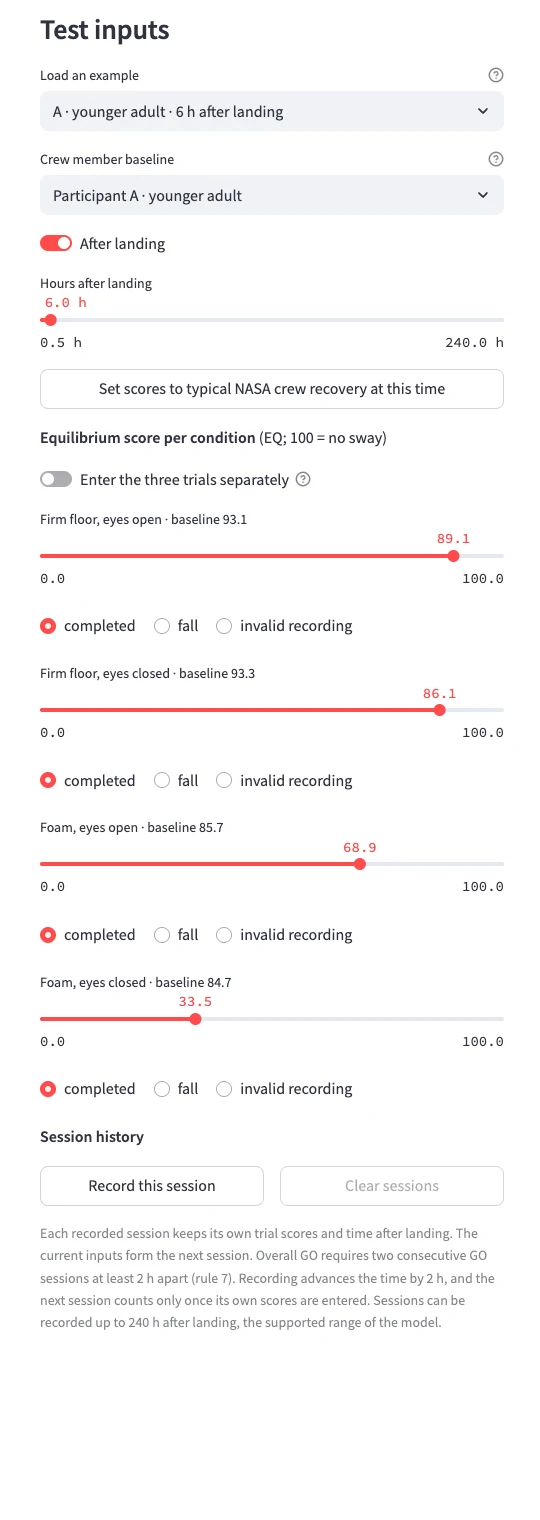
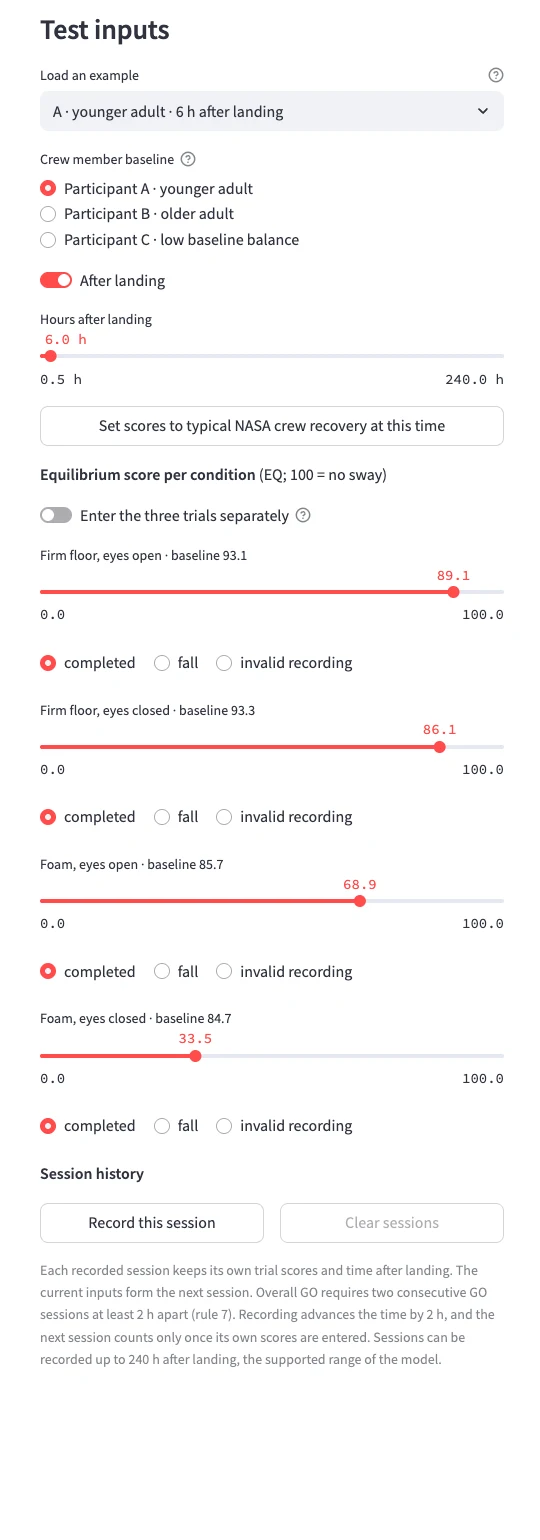
Deployed 23863ed with MkDocs version: 1.6.1

diff --git a/documentation/decision/index.html b/documentation/decision/index.html
@@ -771,6 +771,17 @@
 </li>
       
         <li class="md-nav__item">
+  <a href="#published-values-and-design-choices" class="md-nav__link">
+    <span class="md-ellipsis">
+      
+        Published values and design choices
+      
+    </span>
+  </a>
+  
+</li>
+      
+        <li class="md-nav__item">
   <a href="#overall-result-rule-7" class="md-nav__link">
     <span class="md-ellipsis">
       
@@ -1077,6 +1088,17 @@
 </li>
       
         <li class="md-nav__item">
+  <a href="#published-values-and-design-choices" class="md-nav__link">
+    <span class="md-ellipsis">
+      
+        Published values and design choices
+      
+    </span>
+  </a>
+  
+</li>
+      
+        <li class="md-nav__item">
   <a href="#overall-result-rule-7" class="md-nav__link">
     <span class="md-ellipsis">
       
@@ -1170,8 +1192,9 @@
 <p><strong>Rule 3: the 75% line.</strong> Jain et al. (2010) regarded a decrement of less than 25% from a crew member's own preflight
 score as recovery. A score below 75% of baseline therefore yields NO-GO.</p>
 <p><strong>Rule 4: the population floor.</strong> Jain et al. (2010) regarded a score below the 5th percentile of normative data as
-clinically abnormal. The floor <span class="arithmatex">\(P5_c\)</span> is the 5th percentile of healthy <abbr title="Human Balance Evaluation Database (PhysioNet): 163 adults, 1,930 force-plate trials">HBEDB</abbr> reference scores in the same condition
-and age group. A crew member whose score is below the floor is referred to the crew surgeon, even when the score is
+clinically abnormal. The floor <span class="arithmatex">\(P5_c\)</span> is the 5th percentile of reference scores in the same condition and age group,
+from <abbr title="Human Balance Evaluation Database (PhysioNet): 163 adults, 1,930 force-plate trials">HBEDB</abbr> participants without a reported disability, excluding reported labyrinthitis (see
+<a href="../validation/">Validation</a>). A crew member whose score is below the floor is referred to the crew surgeon, even when the score is
 close to their own baseline.</p>
 <h2 id="the-go-threshold">The GO threshold<a class="headerlink" href="#the-go-threshold" title="Permanent link">&para;</a></h2>
 <p>A single test is noisy. A score just above 75% of baseline may come from a true score below it. The GO threshold
@@ -1187,12 +1210,49 @@ median of three baseline trials when no true change has occurred. It is the larg
   200,000 times.</li>
 <li><strong>From the literature.</strong> The minimal detectable change of the head-shake Sensory Organization Test reported by Pang et al.
   (2011), 2.7 (younger) and 3.6 (older) points on the firm conditions and 16.2 and 22.7 points on the foam
-  conditions, converted to a per-trial spread and simulated 100,000 times at each baseline level.</li>
+  conditions. Each value, reported for a five-trial mean, is converted to a per-trial standard deviation,
+  <span class="arithmatex">\(\mathrm{MDC}\sqrt{5}/(1.96\sqrt{2})\)</span>, and three-trial medians are simulated 100,000 times at each baseline
+  level with independent, normally distributed errors.</li>
 </ul>
+<p>The literature margin is a transfer. Pang et al. measured five-trial means with head movements on firm and
+sway-referenced surfaces and divided age groups at 50 years. Here it is applied to three-trial medians with the head
+still, including foam, with the <abbr title="Human Balance Evaluation Database (PhysioNet): 163 adults, 1,930 force-plate trials">HBEDB</abbr> age groups divided at 60 years. Taking the larger of the two margins is the
+cautious choice.</p>
 <p>If <span class="arithmatex">\(q_c \ge 1\)</span>, the GO threshold lies at or above baseline. GO is then not reachable under the recovery model, and
 no retest time is estimated.</p>
 <p><strong>Example.</strong> For participant A on foam with eyes closed, <span class="arithmatex">\(b = 84.7\)</span>, <span class="arithmatex">\(q_{95} = 1.267\)</span> and <span class="arithmatex">\(P5 = 77.1\)</span>, so
 <span class="arithmatex">\(q = \max(0.950, 0.910) = 0.950\)</span>. A score must reach 95% of baseline for GO.</p>
+<h2 id="published-values-and-design-choices">Published values and design choices<a class="headerlink" href="#published-values-and-design-choices" title="Permanent link">&para;</a></h2>
+<table>
+<thead>
+<tr>
+<th>Quantity</th>
+<th>Origin</th>
+</tr>
+</thead>
+<tbody>
+<tr>
+<td>75% line</td>
+<td>Published: working definition of recovery (Jain et al. 2010)</td>
+</tr>
+<tr>
+<td>5th-percentile floor</td>
+<td>Published criterion (Jain et al. 2010), computed from <abbr title="Human Balance Evaluation Database (PhysioNet): 163 adults, 1,930 force-plate trials">HBEDB</abbr> reference data</td>
+</tr>
+<tr>
+<td>Test–retest margin</td>
+<td>Computed from <abbr title="Human Balance Evaluation Database (PhysioNet): 163 adults, 1,930 force-plate trials">HBEDB</abbr> data and from published values (Pang et al. 2011), with the transfer assumptions above</td>
+</tr>
+<tr>
+<td>Two sessions, at least 2 h apart</td>
+<td>Design choice</td>
+</tr>
+<tr>
+<td>Recovery model</td>
+<td>Published (Wood et al. 2015, Table III)</td>
+</tr>
+</tbody>
+</table>
 <h2 id="overall-result-rule-7">Overall result (rule 7)<a class="headerlink" href="#overall-result-rule-7" title="Permanent link">&para;</a></h2>
 <ul>
 <li>The overall result is that of the least favourable condition, in the order CANNOT ASSESS, NO-GO, CAUTION, GO.</li>

diff --git a/usage/reference/index.html b/usage/reference/index.html
@@ -1282,7 +1282,7 @@
 </tr>
 <tr>
 <td><strong>Crew member baseline</strong></td>
-<td>Preflight baseline and age group. The reference scores of three <abbr title="Human Balance Evaluation Database (PhysioNet): 163 adults, 1,930 force-plate trials">HBEDB</abbr> participants serve as preflight proxies. Changing the crew member clears the session history.</td>
+<td>Three option buttons. Preflight baseline and age group. The reference scores of three <abbr title="Human Balance Evaluation Database (PhysioNet): 163 adults, 1,930 force-plate trials">HBEDB</abbr> participants serve as preflight proxies. Changing the crew member clears the session history.</td>
 </tr>
 <tr>
 <td><strong>After landing</strong></td>
@@ -1315,6 +1315,37 @@
 <tr>
 <td><strong>Clear sessions</strong></td>
 <td>Removes every recorded session.</td>
+</tr>
+</tbody>
+</table>
+<p>Further controls in the tabs:</p>
+<table>
+<thead>
+<tr>
+<th>Control</th>
+<th>Description</th>
+</tr>
+</thead>
+<tbody>
+<tr>
+<td><strong>Planned dose (mg)</strong></td>
+<td>Pharmacological scenario tab: 0, 12.5, 25 or 50 mg of promethazine. 0 switches the scenario off. Available only after a landing, when every condition has a valid recording and no fall has occurred.</td>
+</tr>
+<tr>
+<td><strong>Route</strong></td>
+<td>Oral or intramuscular.</td>
+</tr>
+<tr>
+<td><strong>Dose time</strong></td>
+<td>0–48 h after the current session, in steps of 0.5 h.</td>
+</tr>
+<tr>
+<td><strong>Condition</strong></td>
+<td>From force plate to score tab: the sensory condition whose recorded baseline trial is shown.</td>
+</tr>
+<tr>
+<td><strong>Analyte</strong></td>
+<td>Additional crew data tab: one of seven blood analytes.</td>
 </tr>
 </tbody>
 </table>
@@ -1393,9 +1424,12 @@ landing and, where shown, the retest time (Wood et al. 2015).</p>
 the resulting status with the rule that produced it. Rules are applied in numerical order, and the first that
 applies sets the result. The numbered rules are listed under the table, with the applied rule marked.</p>
 <h3 id="estimated-retest-time">Estimated retest time<a class="headerlink" href="#estimated-retest-time" title="Permanent link">&para;</a></h3>
-<p>Shown after a landing when the result is CAUTION or NO-GO. The chart shows the recovery curve of the condition that
-reaches its GO threshold last, the estimated retest time and its range. When a GO threshold cannot be reached, no
-time is shown and the card refers the crew member to the crew surgeon.</p>
+<p>Shown after a landing when every condition has a valid recording, no fall has occurred and the session is not GO.
+It is also shown for a GO session when a planned dose is predicted to lower a score below its GO threshold. It is not
+shown for a GO session awaiting confirmation without a dose, after a fall, or for CANNOT ASSESS. The chart shows the recovery curve of the condition that
+reaches its GO threshold last, the estimated retest time and its range. Conditions already at or above their GO threshold need no recovery. When the GO threshold of a
+condition still below it cannot be reached, no time is shown and the card refers the crew member to the crew
+surgeon. A retest time later than 240 h after landing is labelled as an extrapolation.</p>
 <h3 id="recovery-compared-with-typical-nasa-crew">Recovery compared with typical NASA crew<a class="headerlink" href="#recovery-compared-with-typical-nasa-crew" title="Permanent link">&para;</a></h3>
 <p>Shown after a landing. Four panels, one per condition, place the recorded sessions (filled points) and the current
 session (open point) on the NASA recovery curve. Invalid recordings and a session timed before the last recorded

diff --git a/index.html b/index.html
@@ -407,7 +407,7 @@
       <div><b>37</b><span>ISS crew members in the NASA recovery model that sets the retest time</span></div>
       <div><b>1,930</b><span>force-plate trials from 163 adults used for baselines, test–retest variability and population floors</span></div>
     </div>
-    <p class="md-grid lp-stats__note">Sources: Wood et al. (2015), Table III; Jain et al. (2010); Santos and Duarte (2016).</p>
+    <p class="md-grid lp-stats__note">Sources: Wood et al. (2015), Table III, Jain et al. (2010) and Santos and Duarte (2016).</p>
   </section>
 
       <main class="md-main" data-md-component="main">
@@ -1134,7 +1134,7 @@
       <div class="lp-card">
         <div class="lp-ico"><svg viewBox="0 0 24 24" width="22" height="22" fill="none" stroke="currentColor" stroke-width="2" stroke-linecap="round" stroke-linejoin="round"><circle cx="12" cy="12" r="9"/><path d="M12 7v5l3 2"/></svg></div>
         <h3>Readiness changes by the hour</h3>
-        <p>A single test answers whether egress is safe now. The crew surgeon also needs to know when a retest is worthwhile.</p>
+        <p>A single test gives a provisional classification of balance at that moment. The crew surgeon also needs to know when a retest is worthwhile, and the egress decision remains a clinical judgement.</p>
       </div>
       <div class="lp-card">
         <div class="lp-ico"><svg viewBox="0 0 24 24" width="22" height="22" fill="none" stroke="currentColor" stroke-width="2" stroke-linecap="round" stroke-linejoin="round"><path d="m21.7 18-8-14a2 2 0 0 0-3.4 0l-8 14A2 2 0 0 0 4 21h16a2 2 0 0 0 1.7-3"/><path d="M12 9v4M12 17h.01"/></svg></div>
@@ -1153,7 +1153,7 @@
       <li><span class="lp-step__n">3</span><h3>Decide</h3><p>Seven numbered rules, applied in a fixed order, return GO, CAUTION, NO-GO or CANNOT ASSESS. Overall GO requires two GO sessions.</p></li>
       <li><span class="lp-step__n">4</span><h3>Forecast</h3><p>If the result is not GO, the NASA crew recovery model gives the time at which every condition is expected to reach its GO threshold.</p></li>
     </ol>
-    <p class="lp-more"><a href="documentation/">Read the technical documentation &rarr;</a></p>
+    <p class="lp-more"><a href="documentation/">Read the technical documentation</a></p>
   </section>
 
   <section class="lp-section lp-writeup">
@@ -1169,9 +1169,9 @@ spaceflight.</p>
 standing-balance test into one of four results, <strong>GO</strong>, <strong>CAUTION</strong>, <strong>NO-GO</strong> or <strong>CANNOT ASSESS</strong>, names the rule
 that produced it and states the next action. When the result is not GO, it estimates the retest time from the
 published NASA crew recovery model.</p>
-<p>The model is deterministic. Every threshold is computed from published values or from healthy reference data, and
-every result can be traced to a numbered rule. No model is trained, because no public dataset labels individuals as
-fit or unfit to leave a vehicle.</p>
+<p>The model is deterministic. The thresholds combine published values, reference data from healthy adults and stated
+design choices, each documented with its source, and every result can be traced to a numbered rule. No model is
+trained, because no public dataset known to us labels individuals as fit or unfit to leave a vehicle.</p>
 <h2 id="the-decision-in-one-picture">The decision in one picture<a class="headerlink" href="#the-decision-in-one-picture" title="Permanent link">&para;</a></h2>
 <div class="diagram">
 <pre class="mermaid"><code>flowchart LR

diff --git a/documentation/validation/index.html b/documentation/validation/index.html
@@ -833,6 +833,17 @@
     <ul class="md-nav__list" data-md-component="toc" data-md-scrollfix>
       
         <li class="md-nav__item">
+  <a href="#reference-cohort" class="md-nav__link">
+    <span class="md-ellipsis">
+      
+        Reference cohort
+      
+    </span>
+  </a>
+  
+</li>
+      
+        <li class="md-nav__item">
   <a href="#calibration-against-nasa-crew-preflight-scores" class="md-nav__link">
     <span class="md-ellipsis">
       
@@ -1066,6 +1077,17 @@
     <ul class="md-nav__list" data-md-component="toc" data-md-scrollfix>
       
         <li class="md-nav__item">
+  <a href="#reference-cohort" class="md-nav__link">
+    <span class="md-ellipsis">
+      
+        Reference cohort
+      
+    </span>
+  </a>
+  
+</li>
+      
+        <li class="md-nav__item">
   <a href="#calibration-against-nasa-crew-preflight-scores" class="md-nav__link">
     <span class="md-ellipsis">
       
@@ -1143,6 +1165,11 @@
 <h1 id="validation">Validation<a class="headerlink" href="#validation" title="Permanent link">&para;</a></h1>
 <p>The values below are produced by <code>scripts/validate.py</code> from the full Human Balance Evaluation Database (163 adults,
 1,930 trials) and are reported in <code>out/VALIDATION.md</code> in the repository.</p>
+<h2 id="reference-cohort">Reference cohort<a class="headerlink" href="#reference-cohort" title="Permanent link">&para;</a></h2>
+<p>In this model, the healthy reference group comprises <abbr title="Human Balance Evaluation Database (PhysioNet): 163 adults, 1,930 force-plate trials">HBEDB</abbr> participants without a reported disability, excluding
+those reporting labyrinthitis. Other illnesses and medication are not excluded: of the 140 participants, 86 report an
+illness and 89 a medication. The group therefore represents a general adult population rather than a screened
+astronaut population, and its floors and margins are a conservative proxy for crew values.</p>
 <h2 id="calibration-against-nasa-crew-preflight-scores">Calibration against NASA crew preflight scores<a class="headerlink" href="#calibration-against-nasa-crew-preflight-scores" title="Permanent link">&para;</a></h2>
 <p>Healthy adults aged 25–55 years (n = 43), scored with the method described in
 <a href="../measurement/">Measurement and score</a>, compared with the preflight means of 37 <abbr title="International Space Station">ISS</abbr> crew members (Wood et al.

diff --git a/references/index.html b/references/index.html
@@ -983,15 +983,16 @@
 <h1 id="references">References<a class="headerlink" href="#references" title="Permanent link">&para;</a></h1>
 <p>Bermúdez Rey MC, Clark TK, Wang W, Leeder T, Bian Y, Merfeld DM. Vestibular perceptual thresholds increase above the
 age of 40. <em>Frontiers in Neurology</em> 2016;7:162. <a href="https://doi.org/10.3389/fneur.2016.00162">https://doi.org/10.3389/fneur.2016.00162</a></p>
-<p>Boyd, Wang and Putcha. Bioavailability of promethazine during spaceflight. NASA Technical Reports Server
+<p>Boyd JL, Wang Z, Putcha L. Bioavailability of promethazine during spaceflight. NASA Technical Reports Server
 20090001322, 2009. <a href="https://ntrs.nasa.gov/citations/20090001322">https://ntrs.nasa.gov/citations/20090001322</a></p>
 <p>Diaz-Artiles A, Priesol AJ, Clark TK, Sherwood DP, Oman CM, Young LR, Karmali F. The impact of oral promethazine on
 human whole-body motion perceptual thresholds. <em>Journal of the Association for Research in Otolaryngology</em>
 2017;18(4):581–590. <a href="https://doi.org/10.1007/s10162-017-0622-z">https://doi.org/10.1007/s10162-017-0622-z</a></p>
 <p>Gandia P, Saivin S, Le-Traon AP, Guell A, Houin G. Influence of simulated weightlessness on the intramuscular and
 oral pharmacokinetics of promethazine in 12 human volunteers. <em>Journal of Clinical Pharmacology</em> 2006;46(9):1008–1016. <a href="https://doi.org/10.1177/0091270006291032">https://doi.org/10.1177/0091270006291032</a></p>
-<p>Goldberger AL, Amaral LAN, Glass L, et al. PhysioBank, PhysioToolkit, and PhysioNet. <em>Circulation</em>
-2000;101(23):e215–e220.</p>
+<p>Goldberger AL, Amaral LAN, Glass L, et al. PhysioBank, PhysioToolkit, and PhysioNet: components of a new research
+resource for complex physiologic signals. <em>Circulation</em> 2000;101(23):e215–e220.
+<a href="https://doi.org/10.1161/01.CIR.101.23.e215">https://doi.org/10.1161/01.CIR.101.23.e215</a></p>
 <p>Jain V, Wood SJ, Feiveson AH, Black FO, Paloski WH. Diagnostic accuracy of dynamic posturography testing after
 short-duration spaceflight. <em>Aviation, Space, and Environmental Medicine</em> 2010;81(7):625–631.
 <a href="https://doi.org/10.3357/asem.2710.2010">https://doi.org/10.3357/asem.2710.2010</a></p>

diff --git a/documentation/measurement/index.html b/documentation/measurement/index.html
@@ -1154,7 +1154,10 @@
 </table>
 <p>Condition 5, with eyes closed on a sway-referenced support, is the condition most affected after spaceflight because
 the crew member must rely on the vestibular system. NASA uses a sway-referenced platform. This prototype uses foam,
-which Jain et al. (2010) proposed as a simpler substitute while noting that the two are not strictly equivalent.</p>
+which Jain et al. (2010) proposed as a simpler substitute while noting that the two are not strictly equivalent.
+They also report that foam testing was tried with one Shuttle crew on landing day and abandoned after the crew
+reported concern that it disrupted their postflight recovery. Tolerability of the test on landing day is therefore
+unresolved.</p>
 <p>The test challenges balance in crew members who may fall. It is administered with a spotter or a safety harness,
 and a fall is recorded as a trial outcome.</p>
 <h2 id="from-force-plate-to-centre-of-mass">From force plate to centre of mass<a class="headerlink" href="#from-force-plate-to-centre-of-mass" title="Permanent link">&para;</a></h2>
@@ -1196,6 +1199,10 @@ r_c = \frac{\operatorname{median}(\mathrm{EQ}_{c,1}, \mathrm{EQ}_{c,2}, \mathrm{
 \]</div>
 <p>The baseline <span class="arithmatex">\(b_c\)</span> is the median of the three preflight trials. A score is never compared with a baseline from a
 different condition.</p>
+<p>Balance scores improve with repeated testing. Jain et al. (2010) excluded the first two preflight sessions for this
+reason, and Wood et al. (2015) used the last of two preflight sessions. A baseline taken without familiarisation
+underestimates true performance and inflates later ratios. The familiarisation protocol is not specified in this
+prototype, and the single-session <abbr title="Human Balance Evaluation Database (PhysioNet): 163 adults, 1,930 force-plate trials">HBEDB</abbr> recordings used as preflight proxies cannot establish it.</p>
 
 
 

diff --git a/documentation/limitations/index.html b/documentation/limitations/index.html
@@ -1127,6 +1127,11 @@ provisional decision assumption informed by NASA working definitions, not a vali
 <td>The test is administered with a spotter or a safety harness.</td>
 <td>Test design</td>
 </tr>
+<tr>
+<td>A9</td>
+<td>Two GO sessions at least 2 h apart are sufficient confirmation.</td>
+<td>Design choice</td>
+</tr>
 </tbody>
 </table>
 <h2 id="limitations">Limitations<a class="headerlink" href="#limitations" title="Permanent link">&para;</a></h2>
@@ -1141,7 +1146,15 @@ provisional decision assumption informed by NASA working definitions, not a vali
 <li>Under literature-level test–retest variability, older adults rarely reach GO on foam. This is a deliberate safety
   trade-off.</li>
 <li>The single-exponential model of Wood et al. (2015) does not represent the slower recovery phase over the
-  following weeks. The supported range is 240 h after landing.</li>
+  following weeks. Sessions can be recorded up to 240 h after landing. A retest time later than 240 h is labelled
+  in the application as an extrapolation of the recovery model.</li>
+<li>The healthy reference group is a general adult population (participants without a reported disability,
+  excluding labyrinthitis) rather than a screened astronaut population.</li>
+<li>A reliable preflight baseline requires familiarisation sessions. The protocol is not specified here.</li>
+<li>Tolerability of foam testing on landing day is unresolved. Jain et al. (2010) report that it was abandoned after
+  one Shuttle crew reported concern that it disrupted their postflight recovery.</li>
+<li>The literature test–retest margin is transferred from a different protocol and age split (Pang et al. 2011), as
+  described in <a href="../decision/">Decision rules</a>.</li>
 <li>The pharmacological scenario is unvalidated and adjusts only the retest estimate.</li>
 </ul>
 

diff --git a/documentation/forecast/index.html b/documentation/forecast/index.html
@@ -1191,8 +1191,11 @@ threshold <span class="arithmatex">\(q_c\)</span> is</p>
 <p>The retest estimate is the largest <span class="arithmatex">\(\Delta t_c\)</span> across the four conditions, because every condition must be GO.
 The range is obtained by repeating the calculation with the lower and upper 95% limits of <span class="arithmatex">\(\tau_c\)</span>. It describes
 the uncertainty of the published crew model, not a 95% interval for the individual.</p>
-<p>If <span class="arithmatex">\(q_c \ge 1\)</span> in any condition, the threshold cannot be reached under the model, and no time is given. A
-condition that is already at or above its threshold needs no recovery.</p>
+<p>If <span class="arithmatex">\(q_c \ge 1\)</span> in a condition whose score is still below its threshold, the threshold cannot be reached under
+the model, and no time is given. A condition that is already at or above its threshold needs no recovery and is
+excluded from the estimate, unless a planned dose is predicted to lower it.</p>
+<p>A retest time later than 240 h after landing is labelled in the application as an extrapolation of the recovery
+model.</p>
 <h2 id="worked-example">Worked example<a class="headerlink" href="#worked-example" title="Permanent link">&para;</a></h2>
 <p>Participant A, 6 h after a simulated landing:</p>
 <table>

diff --git a/documentation/index.html b/documentation/index.html
@@ -1050,8 +1050,9 @@ method, the source of every value and the assumption it rests on.</p>
 <li><strong>Rules are explicit and ordered.</strong> Every result names the rule that produced it.</li>
 <li><strong>Uncertainty favours a retest.</strong> Test–retest variability is allowed for before GO is returned, and an overall GO
    requires two sessions.</li>
-<li><strong>Nothing is trained.</strong> No public dataset labels individuals as fit or unfit to leave a vehicle, so every
-   threshold is derived from published values or from healthy reference data.</li>
+<li><strong>Nothing is trained.</strong> No public dataset known to us labels individuals as fit or unfit to leave a vehicle.
+   The thresholds combine published values, healthy reference data and stated design choices, such as the 2-h
+   interval between sessions.</li>
 </ol>
 <h2 id="architecture">Architecture<a class="headerlink" href="#architecture" title="Permanent link">&para;</a></h2>
 <div class="diagram wide">
